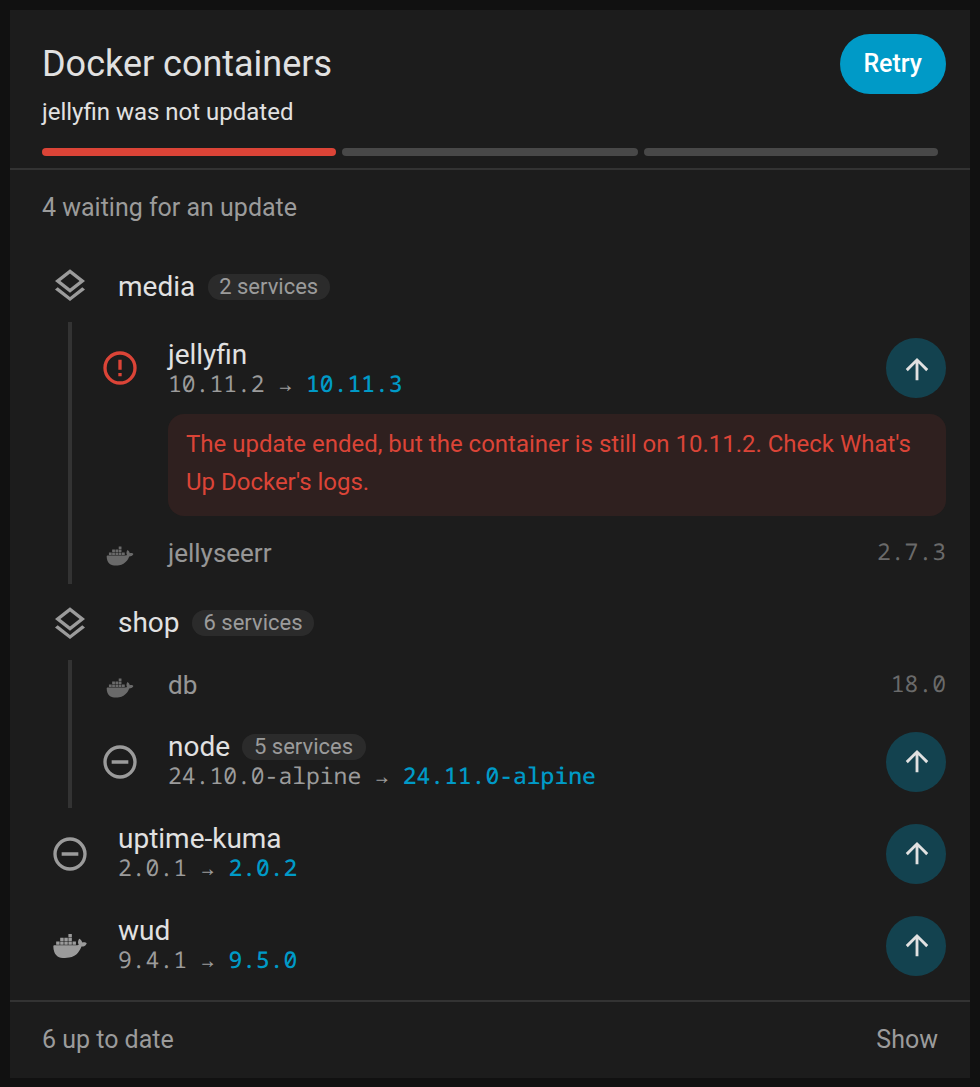
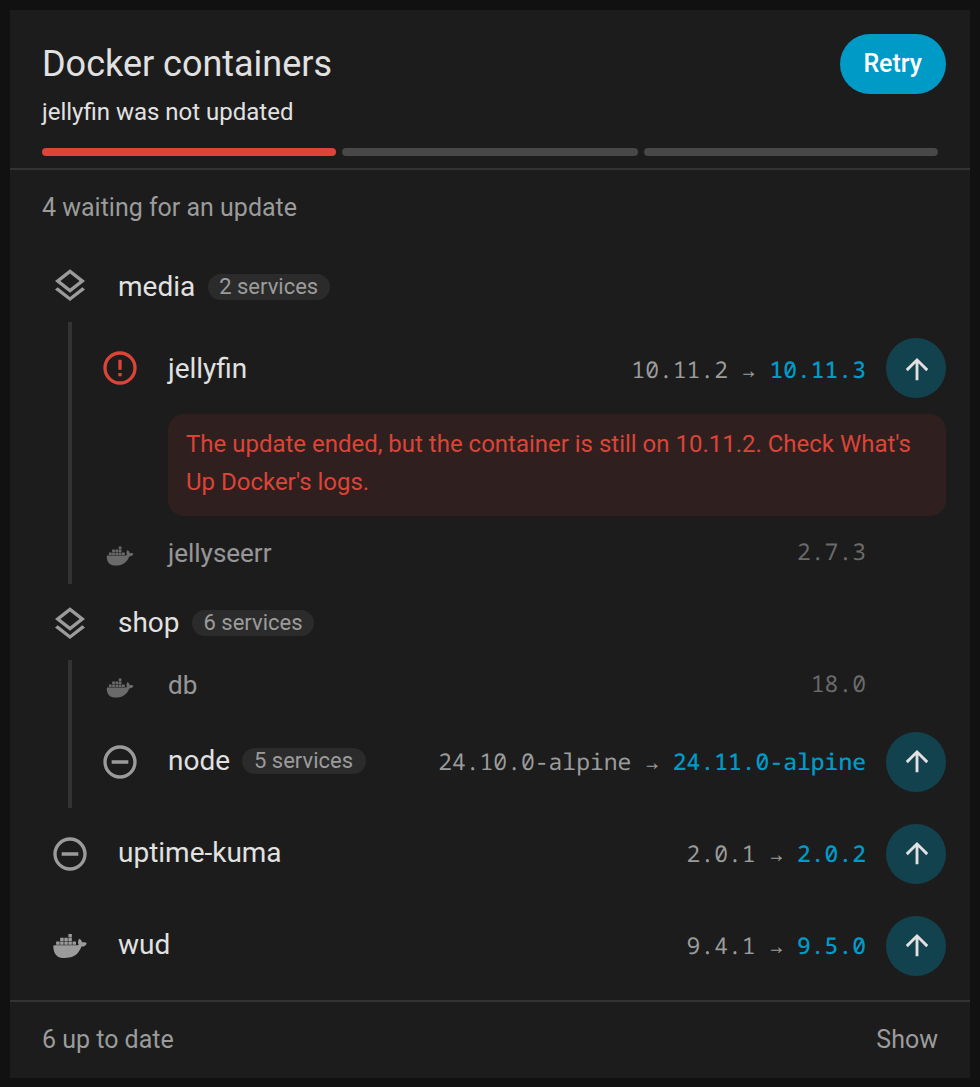
Measure whether the versions fit beside the names, instead of a fixed width
A waiting row's versions go beside its name only when every waiting row's longest name word, the gap and the whole
version fit on one line, and no row is taller than with its versions under its name. Every waiting row switches
together, so the list keeps one layout, and the up-to-date rows in a waiting project line their versions up with
them only then. A narrow card keeps its own layout. A held card measures too, its sections keeping their
scrollbar's room whether they scroll or not. Measuring holds the list to its height rounded to 1/64 px and puts a
scrolled section back where it was. The README's waiting and failed screenshots are retaken, as their short names
now fit beside their versions at 480 px.

diff --git a/src/wud-queue-card.ts b/src/wud-queue-card.ts
@@ -90,6 +90,12 @@ const DOCKER_EPOCH = Date.UTC(2013, 0, 1);
 
 const px = (value: string) => parseFloat(value) || 0;
 
+/**
+ * Room for a measure read in fractions of a pixel, so a text exactly as wide as its room still fits. Smaller than the
+ * 1/64 px a browser lays out in.
+ */
+const SLACK_PX = 0.01;
+
 /** The parts the card itself puts in its ha-card, one after another. */
 const CARD_PARTS = [".hd", ".hd-sub", ".bar", ".list", ".idle", ".message"].map((part) => `:scope > ${part}`).join(", ");
 
@@ -153,6 +159,8 @@ export class WudQueueCard extends LitElement {
     @state() private spare = 0;
     /** The card's width when last measured, 0 before it is drawn. */
     @state() private width = 0;
+    /** As last measured, whether the waiting rows' versions fit beside their names. */
+    @state() private beside = false;
     private frame?: number;
     private readonly resizes = typeof ResizeObserver === "undefined" ? undefined : new ResizeObserver(() => this.measureSoon());
     /** How each remembered install is going, worked out once per update. */
@@ -257,7 +265,64 @@ export class WudQueueCard extends LitElement {
 
     private measureSoon(): void {
         cancelAnimationFrame(this.frame ?? 0);
-        this.frame = requestAnimationFrame(() => this.fillRows());
+        this.frame = requestAnimationFrame(() => {
+            this.measureBeside();
+            this.fillRows();
+        });
+    }
+
+    /**
+     * Puts the waiting rows' versions beside their names only when they fit there: when a name's longest word, the gap and
+     * the whole version fit in the row's texts, and no row is taller than with its version under its name. Then every
+     * waiting row, a shut section's included, so the list keeps one layout. The list is held to its drawn height meanwhile,
+     * its overflow clipped, so nothing around it moves, and a section that scrolls is put back where it was.
+     */
+    private measureBeside(): void {
+        const card = this.renderRoot.querySelector<HTMLElement>("ha-card");
+        const list = card?.querySelector<HTMLElement>(":scope > .list");
+        const infos = list ? [...list.querySelectorAll<HTMLElement>(".row.unit > .info")] : [];
+        if (!card || !list?.clientWidth || infos.length === 0) {
+            if (this.beside && card?.clientWidth) {
+                this.beside = false;
+            }
+            return;
+        }
+        const heights = (): number[] => infos.map((info) => px(getComputedStyle(info).height));
+        const was = card.classList.contains("beside");
+        const scrollers = [...list.querySelectorAll<HTMLElement>(".scroll")].map((scroll) => [scroll, scroll.scrollTop] as const);
+        // A computed height has six significant digits, which can fall short of the 1/64 px a browser lays out in, and the
+        // list held to that would shrink by a fraction while it is measured. So it is held to the 1/64 px it rounds to.
+        list.style.height = `${Math.round(px(getComputedStyle(list).height) * 64) / 64}px`;
+        list.style.overflow = "hidden";
+        list.style.overflowAnchor = "none";
+        card.classList.remove("beside");
+        const under = heights();
+        card.classList.add("beside");
+        const sideBySide = heights();
+        card.classList.add("measuring");
+        // A narrow card's rows lay their texts out on a grid of their own, with no box for the texts to measure.
+        const fits = infos.every((info, i) => {
+            const style = getComputedStyle(info);
+            if (style.display !== "flex") {
+                return false;
+            }
+            const parts = [...info.children].reduce((sum, part) => sum + px(getComputedStyle(part).width), 0);
+            return parts + px(style.columnGap) <= px(style.width) + SLACK_PX && sideBySide[i] <= under[i] + SLACK_PX;
+        });
+        card.classList.remove("measuring");
+        card.classList.toggle("beside", was);
+        list.style.height = "";
+        list.style.overflow = "";
+        list.style.overflowAnchor = "";
+        // Rows measured shorter shrink what a section can scroll, and the browser pulls a section scrolled deep back up.
+        for (const [scroll, top] of scrollers) {
+            if (scroll.scrollTop !== top) {
+                scroll.scrollTop = top;
+            }
+        }
+        if (fits !== this.beside) {
+            this.beside = fits;
+        }
     }
 
     /**
@@ -314,7 +379,7 @@ export class WudQueueCard extends LitElement {
 
     /** The card's classes: held to a height, its texts above the open section keep to one line, and a slide moves its rows along. */
     private cardClass(): string {
-        return [this.heightStyle() && "held", this.sliding && "sliding"].filter(Boolean).join(" ");
+        return [this.heightStyle() && "held", this.sliding && "sliding", this.beside && "beside"].filter(Boolean).join(" ");
     }
 
     /** Whether the card is held to a height that is set, fixed or in rows, and so may have room left under its content. */
@@ -1412,6 +1477,11 @@ export class WudQueueCard extends LitElement {
                     margin-bottom: 8px;
                 }
 
+                /* Its rows are measured the same whether it scrolls or not. */
+                .held .scroll {
+                    scrollbar-gutter: stable;
+                }
+
                 .held .list > .fold.open:last-child .scroll {
                     padding-bottom: 0;
                 }
@@ -1483,22 +1553,39 @@ export class WudQueueCard extends LitElement {
                     transition: margin var(--ha-animation-duration-normal, 250ms) ease;
                 }
 
-                /* A wide card has room for a waiting row's versions beside its name, next to the button. */
-                @container (min-width: 600px) {
-                    .row:not(.sib, .proj-head) .info {
+                /*
+                 * A waiting row's versions go beside its name, next to the button, when every waiting row's fit there, as
+                 * measured, on one line. Its name wraps between words only, as its longest word was measured to fit. A narrow
+                 * card keeps its own layout.
+                 */
+                @container (width > 300px) {
+                    .beside .row.unit > .info {
                         display: flex;
                         align-items: baseline;
                         justify-content: space-between;
                         gap: 16px;
                     }
 
-                    .row:not(.sib, .proj-head) .sub {
-                        text-align: right;
+                    .beside .row.unit > .info > .name {
+                        overflow-wrap: break-word;
+                    }
+
+                    .beside .row.unit > .info > .ver {
+                        flex: none;
+                        white-space: nowrap;
+                        text-align: end;
                     }
 
                     /* Up-to-date siblings line their version up with the waiting rows', left of the buttons. */
-                    .row.sib .end {
+                    .beside .pending .row.sib .end {
                         margin-right: 40px;
+                    }
+
+                    /* Measuring: each name at its longest word, never broken inside one, beside its whole version. */
+                    .measuring .row.unit > .info > .name {
+                        flex: none;
+                        width: min-content;
+                        overflow-wrap: normal;
                     }
                 }
 

diff --git a/dist/wud-queue-card.js b/dist/wud-queue-card.js
@@ -1226,6 +1226,7 @@ var FIRST_ROW_PX = [
 ];
 var DOCKER_EPOCH = Date.UTC(2013, 0, 1);
 var px = (value) => parseFloat(value) || 0;
+var SLACK_PX = 0.01;
 var CARD_PARTS = [".hd", ".hd-sub", ".bar", ".list", ".idle", ".message"].map((part) => `:scope > ${part}`).join(", ");
 function listEndHeight(list) {
   const style = getComputedStyle(list);
@@ -1262,6 +1263,7 @@ var WudQueueCard = class extends i4 {
     this.filled = 0;
     this.spare = 0;
     this.width = 0;
+    this.beside = false;
     this.resizes = typeof ResizeObserver === "undefined" ? void 0 : new ResizeObserver(() => this.measureSoon());
     /** How each remembered install is going, worked out once per update. */
     this.followed = /* @__PURE__ */ new Map();
@@ -1350,7 +1352,59 @@ var WudQueueCard = class extends i4 {
   }
   measureSoon() {
     cancelAnimationFrame(this.frame ?? 0);
-    this.frame = requestAnimationFrame(() => this.fillRows());
+    this.frame = requestAnimationFrame(() => {
+      this.measureBeside();
+      this.fillRows();
+    });
+  }
+  /**
+   * Puts the waiting rows' versions beside their names only when they fit there: when a name's longest word, the gap and
+   * the whole version fit in the row's texts, and no row is taller than with its version under its name. Then every
+   * waiting row, a shut section's included, so the list keeps one layout. The list is held to its drawn height meanwhile,
+   * its overflow clipped, so nothing around it moves, and a section that scrolls is put back where it was.
+   */
+  measureBeside() {
+    const card = this.renderRoot.querySelector("ha-card");
+    const list = card?.querySelector(":scope > .list");
+    const infos = list ? [...list.querySelectorAll(".row.unit > .info")] : [];
+    if (!card || !list?.clientWidth || infos.length === 0) {
+      if (this.beside && card?.clientWidth) {
+        this.beside = false;
+      }
+      return;
+    }
+    const heights = () => infos.map((info) => px(getComputedStyle(info).height));
+    const was = card.classList.contains("beside");
+    const scrollers = [...list.querySelectorAll(".scroll")].map((scroll) => [scroll, scroll.scrollTop]);
+    list.style.height = `${Math.round(px(getComputedStyle(list).height) * 64) / 64}px`;
+    list.style.overflow = "hidden";
+    list.style.overflowAnchor = "none";
+    card.classList.remove("beside");
+    const under = heights();
+    card.classList.add("beside");
+    const sideBySide = heights();
+    card.classList.add("measuring");
+    const fits = infos.every((info, i5) => {
+      const style = getComputedStyle(info);
+      if (style.display !== "flex") {
+        return false;
+      }
+      const parts = [...info.children].reduce((sum, part) => sum + px(getComputedStyle(part).width), 0);
+      return parts + px(style.columnGap) <= px(style.width) + SLACK_PX && sideBySide[i5] <= under[i5] + SLACK_PX;
+    });
+    card.classList.remove("measuring");
+    card.classList.toggle("beside", was);
+    list.style.height = "";
+    list.style.overflow = "";
+    list.style.overflowAnchor = "";
+    for (const [scroll, top] of scrollers) {
+      if (scroll.scrollTop !== top) {
+        scroll.scrollTop = top;
+      }
+    }
+    if (fits !== this.beside) {
+      this.beside = fits;
+    }
   }
   /**
    * In a sections view whose rows are left automatic, the card takes the whole rows its content needs, or the half rows
@@ -1400,7 +1454,7 @@ var WudQueueCard = class extends i4 {
   }
   /** The card's classes: held to a height, its texts above the open section keep to one line, and a slide moves its rows along. */
   cardClass() {
-    return [this.heightStyle() && "held", this.sliding && "sliding"].filter(Boolean).join(" ");
+    return [this.heightStyle() && "held", this.sliding && "sliding", this.beside && "beside"].filter(Boolean).join(" ");
   }
   /** Whether the card is held to a height that is set, fixed or in rows, and so may have room left under its content. */
   setHeight() {
@@ -2382,6 +2436,11 @@ var WudQueueCard = class extends i4 {
                     margin-bottom: 8px;
                 }
 
+                /* Its rows are measured the same whether it scrolls or not. */
+                .held .scroll {
+                    scrollbar-gutter: stable;
+                }
+
                 .held .list > .fold.open:last-child .scroll {
                     padding-bottom: 0;
                 }
@@ -2453,22 +2512,39 @@ var WudQueueCard = class extends i4 {
                     transition: margin var(--ha-animation-duration-normal, 250ms) ease;
                 }
 
-                /* A wide card has room for a waiting row's versions beside its name, next to the button. */
-                @container (min-width: 600px) {
-                    .row:not(.sib, .proj-head) .info {
+                /*
+                 * A waiting row's versions go beside its name, next to the button, when every waiting row's fit there, as
+                 * measured, on one line. Its name wraps between words only, as its longest word was measured to fit. A narrow
+                 * card keeps its own layout.
+                 */
+                @container (width > 300px) {
+                    .beside .row.unit > .info {
                         display: flex;
                         align-items: baseline;
                         justify-content: space-between;
                         gap: 16px;
                     }
 
-                    .row:not(.sib, .proj-head) .sub {
-                        text-align: right;
+                    .beside .row.unit > .info > .name {
+                        overflow-wrap: break-word;
+                    }
+
+                    .beside .row.unit > .info > .ver {
+                        flex: none;
+                        white-space: nowrap;
+                        text-align: end;
                     }
 
                     /* Up-to-date siblings line their version up with the waiting rows', left of the buttons. */
-                    .row.sib .end {
+                    .beside .pending .row.sib .end {
                         margin-right: 40px;
+                    }
+
+                    /* Measuring: each name at its longest word, never broken inside one, beside its whole version. */
+                    .measuring .row.unit > .info > .name {
+                        flex: none;
+                        width: min-content;
+                        overflow-wrap: normal;
                     }
                 }
 
@@ -2521,6 +2597,9 @@ __decorateClass([
 __decorateClass([
   r5()
 ], WudQueueCard.prototype, "width", 2);
+__decorateClass([
+  r5()
+], WudQueueCard.prototype, "beside", 2);
 WudQueueCard = __decorateClass([
   t3("wud-queue-card")
 ], WudQueueCard);

diff --git a/README.md b/README.md
@@ -167,8 +167,8 @@ automatic rows it ends on whole rows, so the cards under it stay on the rows, an
 status line, or under the progress bar while the queue has one. With `row_step: half` it ends on half rows instead.
 
 On a narrow card a waiting row's versions take a line of their own, and a row's status shows only as its icon, with
-the status as the icon's tooltip. On a wide card a waiting row's versions sit beside its name, next to the install
-button.
+the status as the icon's tooltip. Wider, a waiting row's versions sit beside its name, next to the install button,
+whenever every waiting row's name and versions fit side by side on one line, and under the name otherwise.
 
 <img src="https://raw.githubusercontent.com/jesmak/wud-queue-card/main/docs/images/narrow-light.png#gh-light-mode-only" width="250" alt="The queue on a narrow card, a group of services updating with its spinning icon and its long versions on a line of their own under its name">
 <img src="https://raw.githubusercontent.com/jesmak/wud-queue-card/main/docs/images/narrow-dark.png#gh-dark-mode-only" width="250" alt="The queue on a narrow card, a group of services updating with its spinning icon and its long versions on a line of their own under its name">
